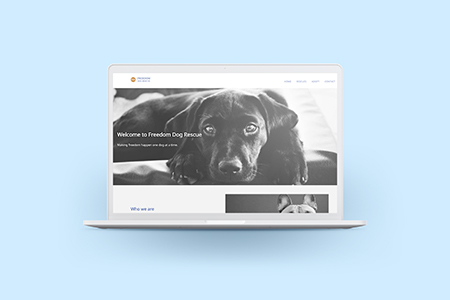
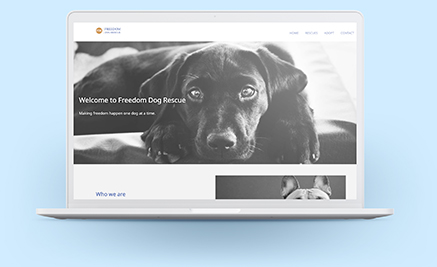
fixing image to fit on card

diff --git a/index.html b/index.html
@@ -32,9 +32,9 @@ layout: default
     <h2 class="navy text-center push-1-2">Latest Work</h2>
     <p class="mega navy home-intro my-padding-bottom push-0">Here are several projects i've worked on and their case studies!</p>
     <div class="gutter push">
-      <div class="project-card island-1-2 dog-background relative">
+      <div class="project-card island-1-2 dog-background">
         <a class="ib" href="/web.html">
-          <div class="grid grid-middle absolute">
+          <div class="grid grid-middle">
             <div class="unit xs-1 s-1 m-1-2 push-m-1-2 l-1-2 island">
               <img src="/images/web-card-photo.jpg" alt="">
             </div>

diff --git a/css/main.css b/css/main.css
@@ -18,14 +18,6 @@
   margin-bottom: 1em;
 }
 
-.relative {
-  position: relative;
-}
-
-.abssolute {
-  position: absolute;
-}
-
 .project-card a {
   text-decoration: none;
 }
